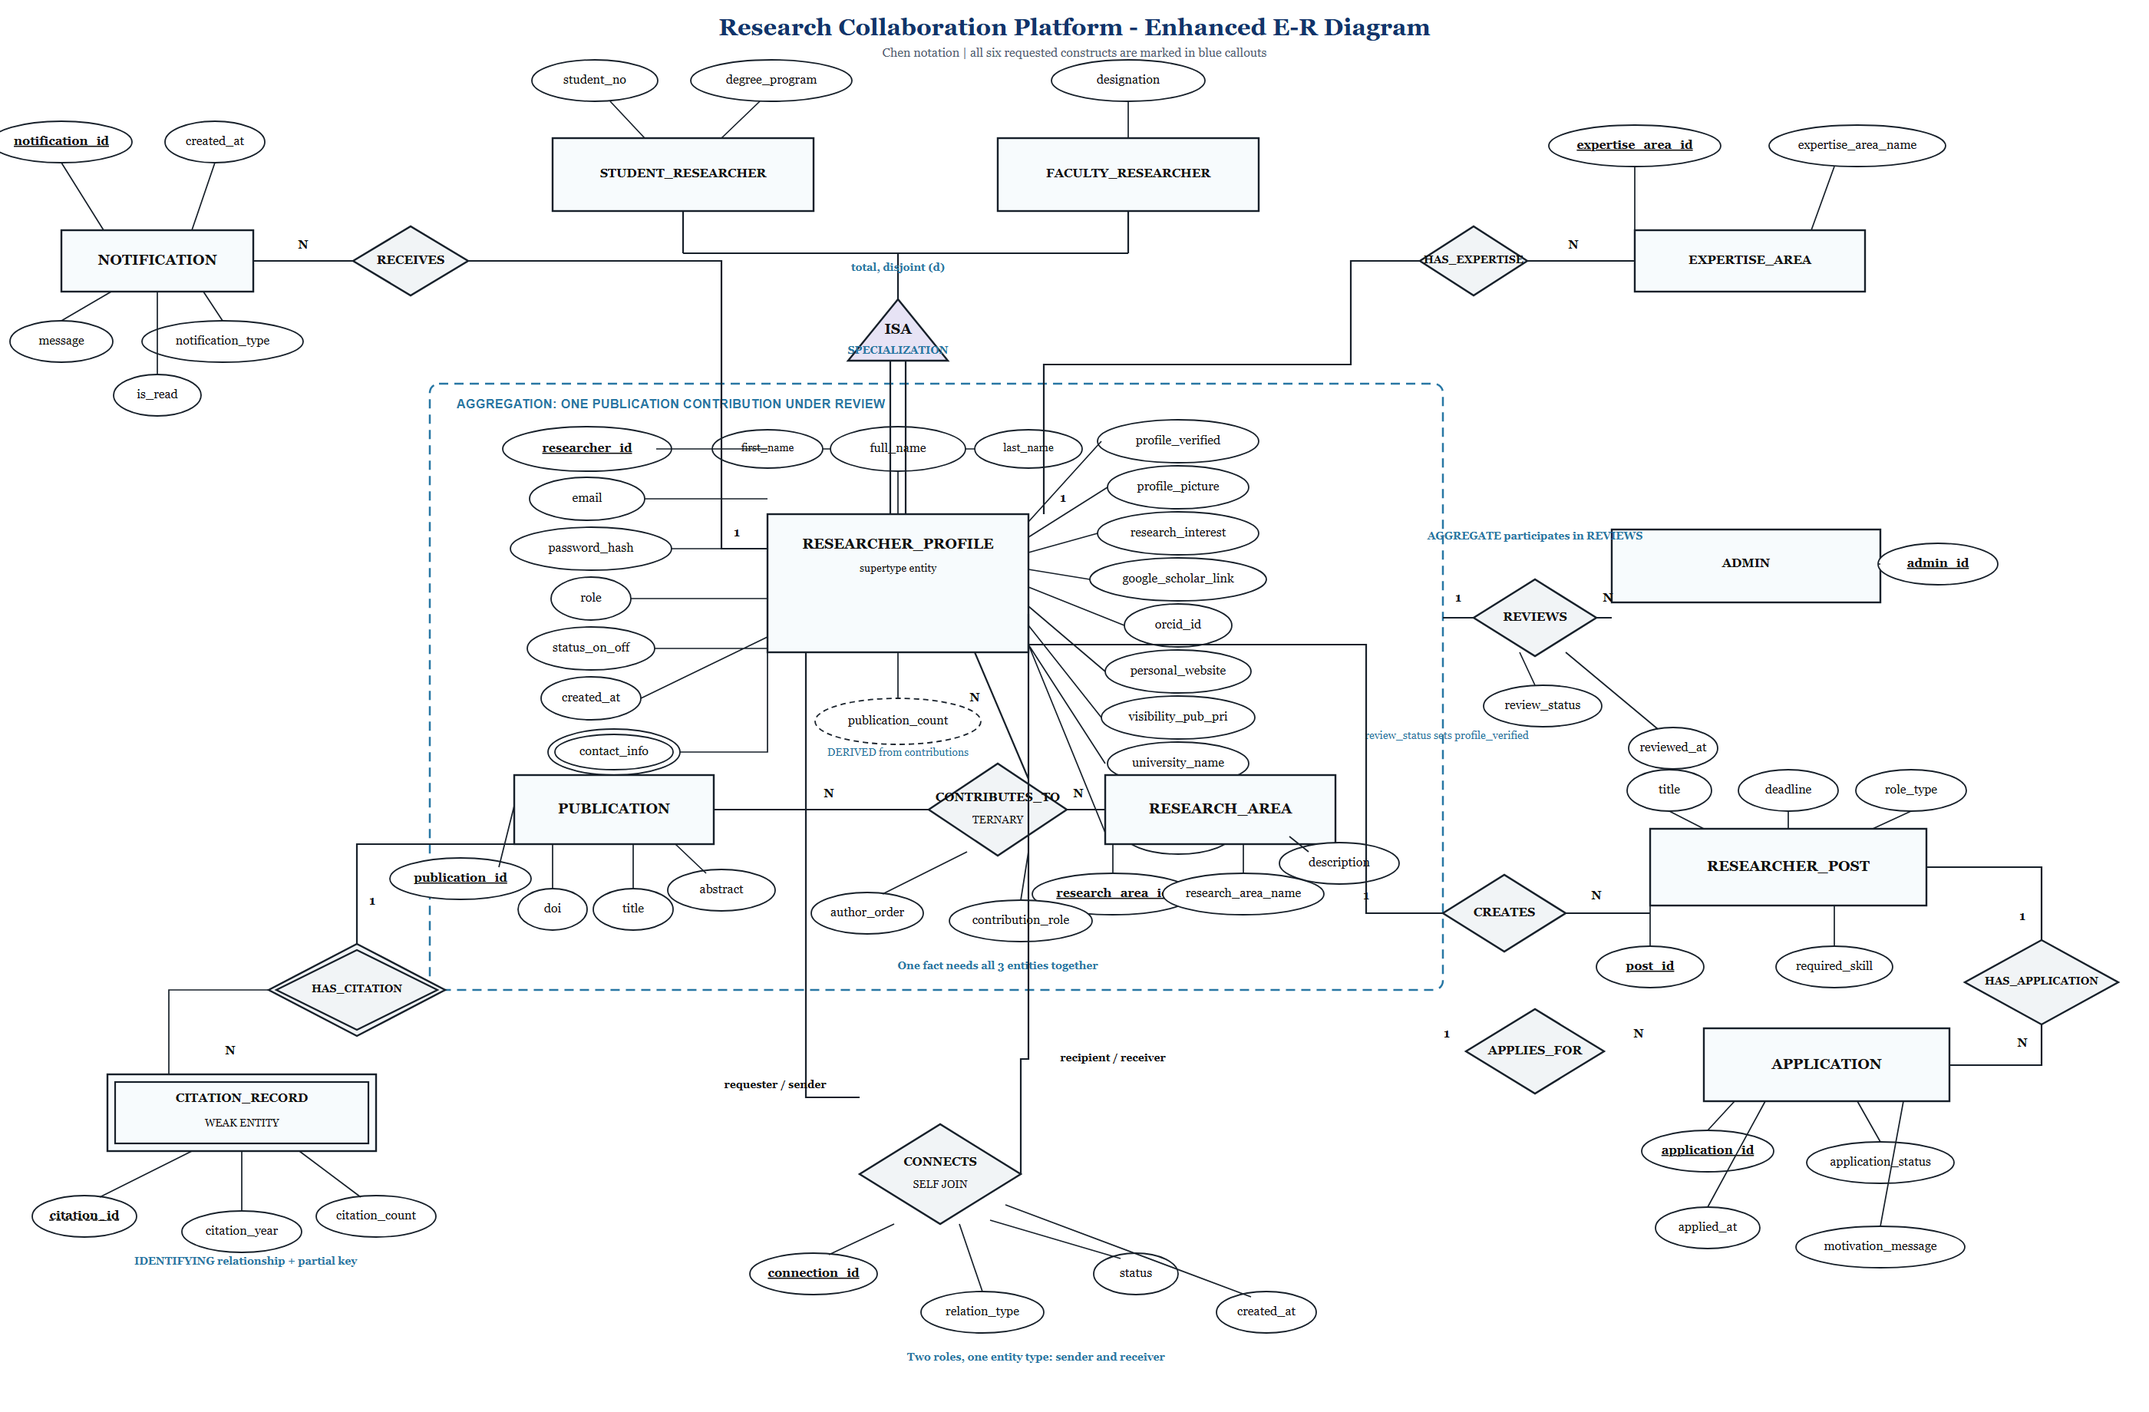
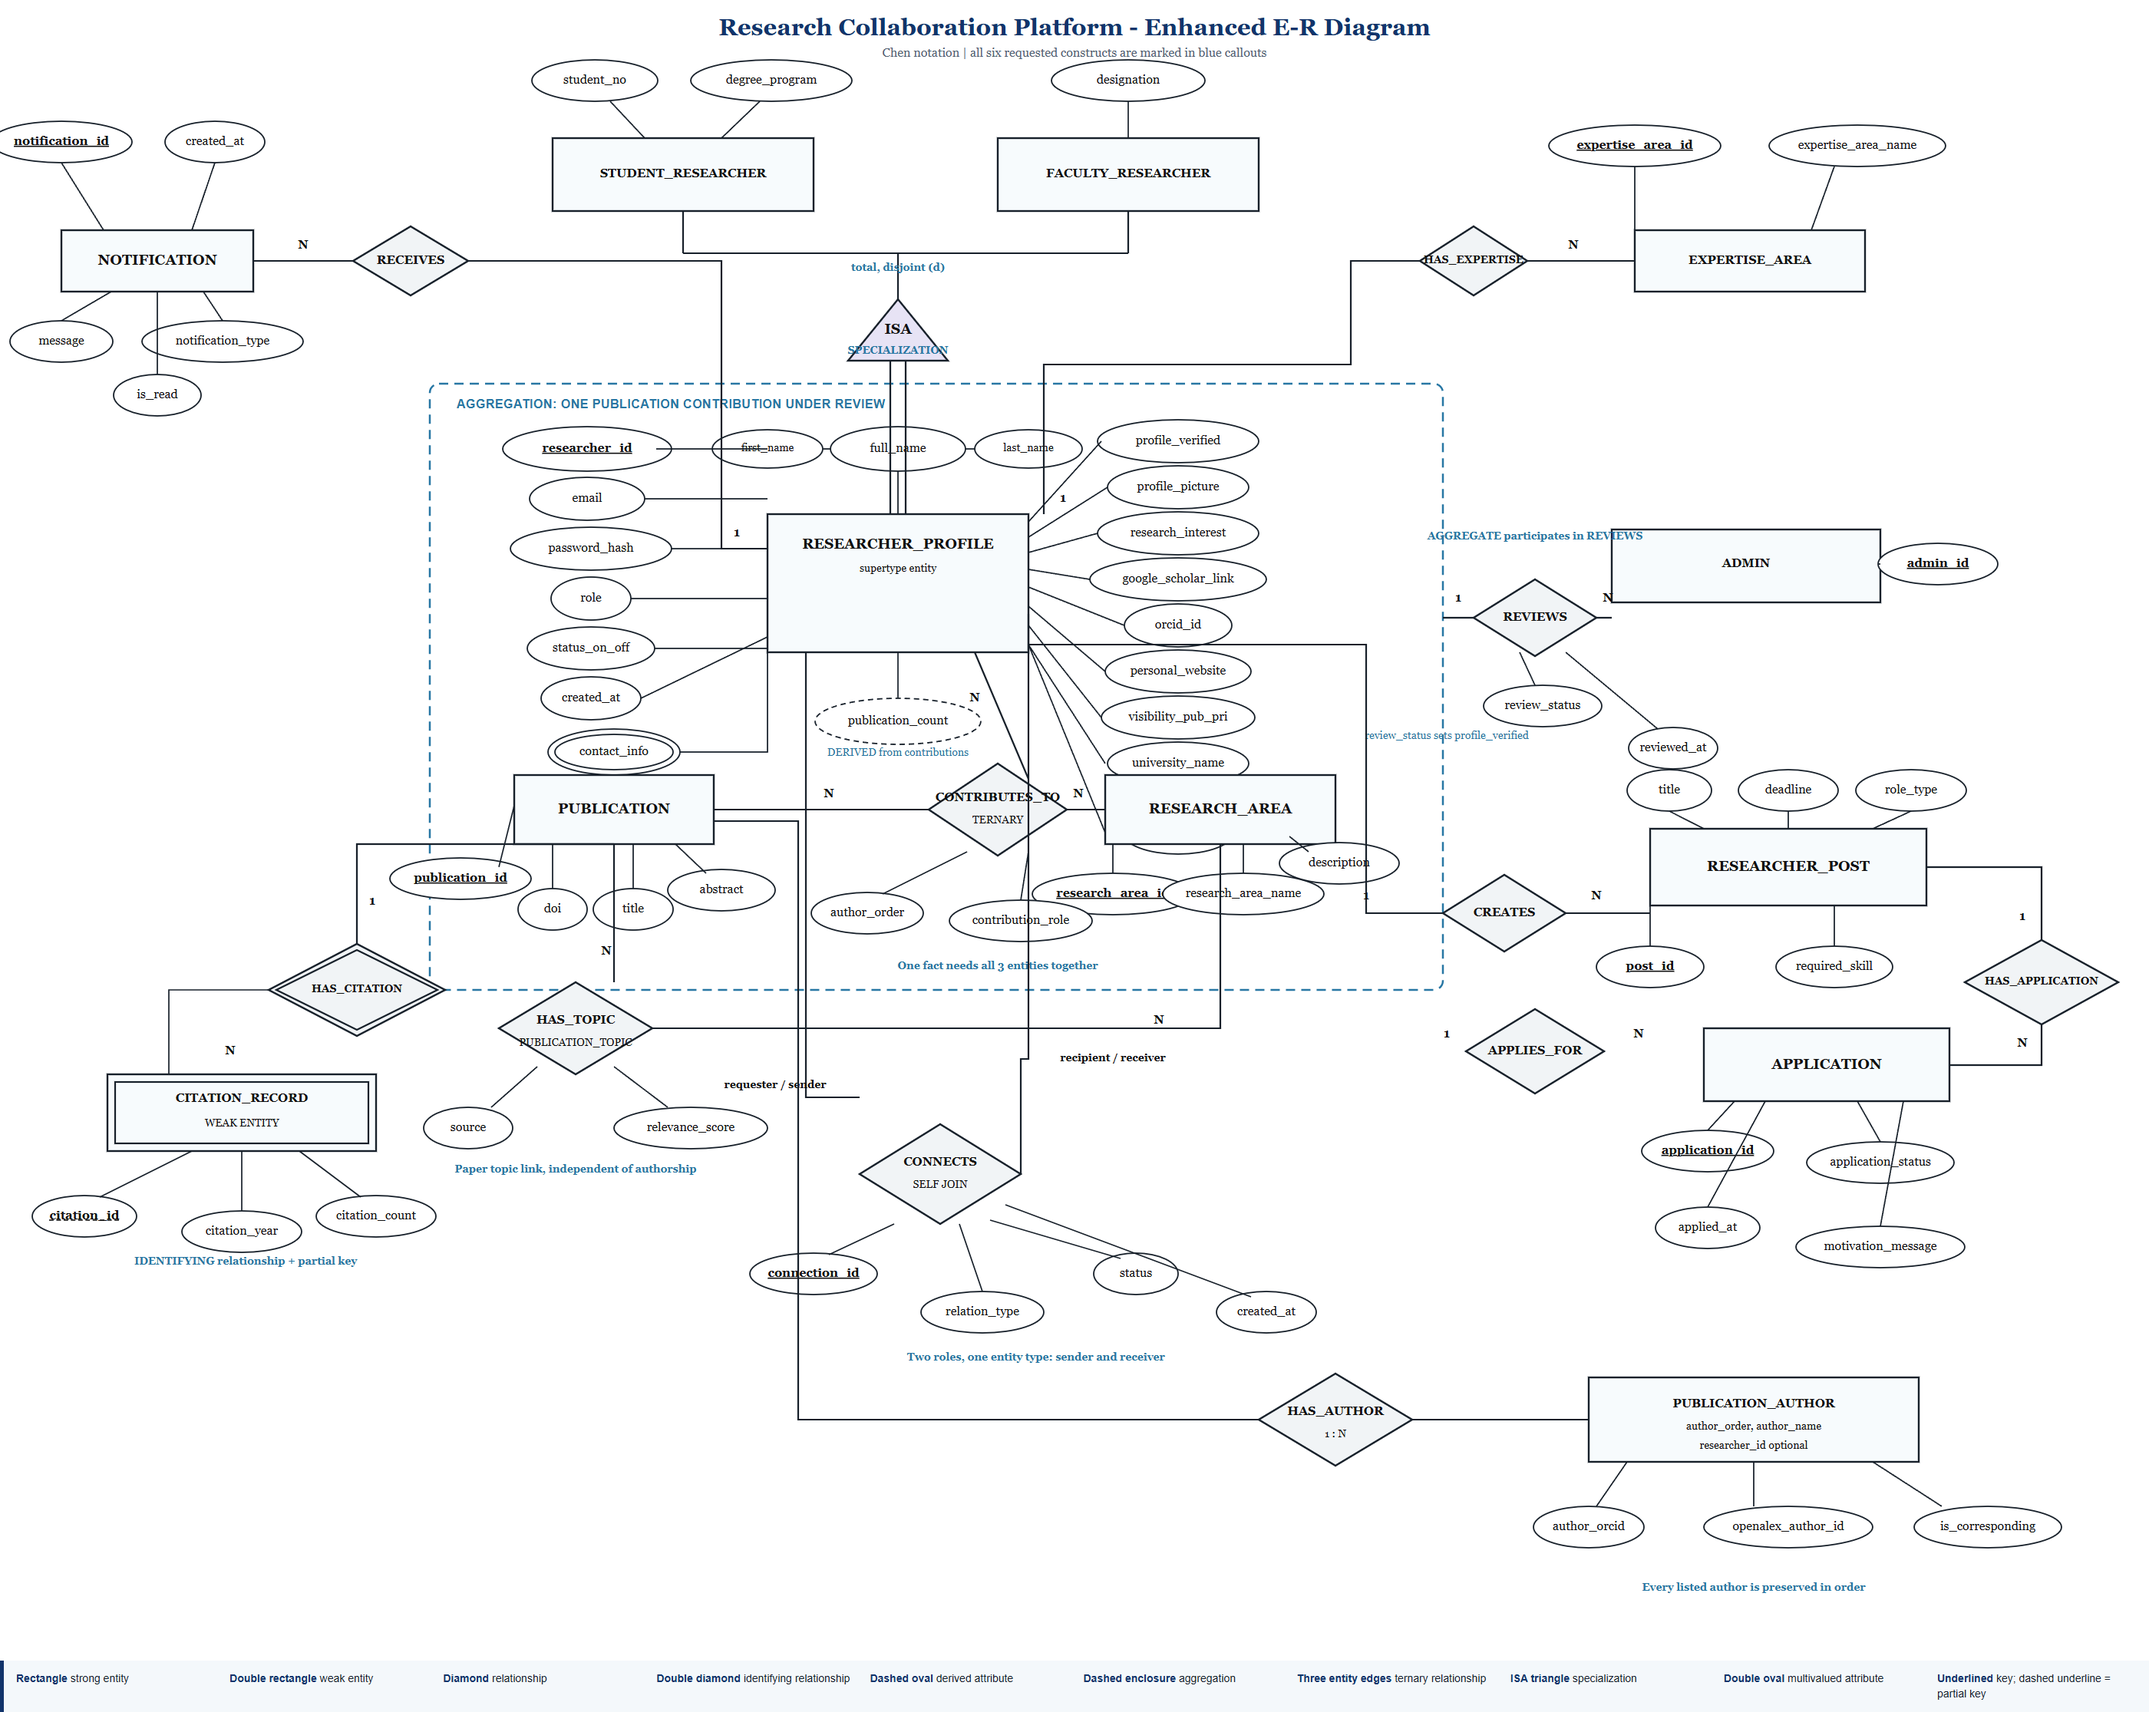
docs: complete publication diagram exports

diff --git a/public/project-schema-er/index.html b/public/project-schema-er/index.html
@@ -81,7 +81,7 @@
 <body>
   <header>
     <h1>Research Collaboration Platform</h1>
-    <p>Complete Chen E-R model and relational schema. The requested classroom constructs are intentionally visible and labelled so the specialization, aggregation, ternary relationship, self join, derived attribute, and weak entity can be checked directly.</p>
+    <p>Complete Chen E-R model and relational schema. The requested classroom constructs are intentionally visible and labelled so the specialization, aggregation, ternary relationship, self join, derived attribute, and weak entity can be checked directly. Publication discovery is restored through independent paper-topic and author relations.</p>
     <nav><a href="#er">ER Diagram</a><a href="#schema">Schema Diagram</a><a href="#mapping">Mapping Checks</a></nav>
   </header>
   <main>
@@ -89,9 +89,9 @@
       <h2>Task A - Enhanced Chen E-R Diagram</h2>
       <p class="intro">The dashed enclosure is an aggregation. The three-way diamond is ternary. The looped CONNECTS relationship is a recursive self join. Double borders identify the weak citation entity and its identifying relationship.</p>
       <div class="diagram-scroll"><div class="diagram-export" id="er-export">
-        <svg id="er-diagram" viewBox="0 0 2800 1840" role="img" aria-labelledby="er-title er-desc">
+        <svg id="er-diagram" viewBox="0 0 2800 2150" role="img" aria-labelledby="er-title er-desc">
           <title id="er-title">Enhanced Research Collaboration Platform Chen ER Diagram</title>
-          <desc id="er-desc">Researcher specialization, ternary contribution, aggregation for review, recursive connection, derived publication count, weak citation history, notification, research area, expertise area, posts, and applications.</desc>
+          <desc id="er-desc">Researcher specialization, ternary contribution, aggregation for review, recursive connection, derived publication count, weak citation history, publication topics, publication authors, notification, research area, expertise area, posts, and applications.</desc>
           <defs>
             <marker id="er-arrow" markerWidth="12" markerHeight="12" refX="10" refY="4" orient="auto"><path d="M0,0 L0,8 L10,4 z" fill="#17202a"/></marker>
           </defs>
@@ -193,6 +193,15 @@
           <path class="connector thin" d="M1260 1110 L1150 1165 M1340 1110 L1330 1173"/>
           <text class="label tiny bold" x="1300" y="1260" style="fill:#2877a4">One fact needs all 3 entities together</text>
 
+          <!-- Restored paper-level topic mapping: a publication can be classified in many research areas. -->
+          <polygon class="relationship" points="650,1340 750,1280 850,1340 750,1400"/><text class="label bold small" x="750" y="1330">HAS_TOPIC</text><text class="label tiny" x="750" y="1360">PUBLICATION_TOPIC</text>
+          <path class="connector" d="M800 1100 V1280 M850 1340 H1590 V1100"/>
+          <text class="label bold small" x="790" y="1240">N</text><text class="label bold small" x="1510" y="1330">N</text>
+          <ellipse class="attribute" cx="610" cy="1470" rx="58" ry="27"/><text class="label small" x="610" y="1470">source</text>
+          <ellipse class="attribute" cx="900" cy="1470" rx="100" ry="27"/><text class="label small" x="900" y="1470">relevance_score</text>
+          <path class="connector thin" d="M700 1390 L640 1443 M800 1390 L870 1443"/>
+          <text class="label tiny bold" x="750" y="1525" style="fill:#2877a4">Paper topic link, independent of authorship</text>
+
           <!-- Aggregation participant: faculty reviewer reviews the contribution occurrence -->
           <rect class="entity-subtype" x="2100" y="690" width="350" height="95"/><text class="label bold small" x="2275" y="735">ADMIN</text>
           <ellipse class="attribute" cx="2525" cy="735" rx="78" ry="27"/><text class="label small key" x="2525" y="735">admin_id</text>
@@ -251,6 +260,16 @@
           <ellipse class="attribute" cx="1650" cy="1710" rx="65" ry="27"/><text class="label small" x="1650" y="1710">created_at</text>
           <path class="connector thin" d="M1165 1595 L1080 1635 M1250 1595 L1280 1683 M1290 1590 L1460 1640 M1310 1570 L1630 1690"/>
           <text class="label tiny bold" x="1350" y="1770" style="fill:#2877a4">Two roles, one entity type: sender and receiver</text>
+
+          <!-- Restored complete author listing, including authors who are not platform researchers. -->
+          <polygon class="relationship" points="1640,1850 1740,1790 1840,1850 1740,1910"/><text class="label bold small" x="1740" y="1840">HAS_AUTHOR</text><text class="label tiny" x="1740" y="1870">1 : N</text>
+          <path class="connector" d="M930 1070 H1040 V1850 H1640 M1840 1850 H2070"/>
+          <rect class="entity" x="2070" y="1795" width="430" height="110"/><text class="label bold small" x="2285" y="1830">PUBLICATION_AUTHOR</text><text class="label tiny" x="2285" y="1860">author_order, author_name</text><text class="label tiny" x="2285" y="1885">researcher_id optional</text>
+          <ellipse class="attribute" cx="2070" cy="1990" rx="72" ry="27"/><text class="label small" x="2070" y="1990">author_orcid</text>
+          <ellipse class="attribute" cx="2330" cy="1990" rx="110" ry="27"/><text class="label small" x="2330" y="1990">openalex_author_id</text>
+          <ellipse class="attribute" cx="2590" cy="1990" rx="96" ry="27"/><text class="label small" x="2590" y="1990">is_corresponding</text>
+          <path class="connector thin" d="M2120 1905 L2080 1963 M2285 1905 V1963 M2440 1905 L2530 1963"/>
+          <text class="label tiny bold" x="2285" y="2070" style="fill:#2877a4">Every listed author is preserved in order</text>
         </svg>
         <div class="legend">
           <span><b>Rectangle</b> strong entity</span>
@@ -297,6 +316,10 @@
             <path d="M1080 1015 H1140 V155 H300" data-ref="PUBLICATION_CONTRIBUTION.researcher_id -> RESEARCHER_PROFILE.researcher_id"/>
             <path d="M1080 1015 H1160 V590 H870" data-ref="PUBLICATION_CONTRIBUTION.research_area_id -> RESEARCH_AREA.research_area_id"/>
             <path d="M1480 1015 H1440 V590 H1180" data-ref="CITATION_RECORD.publication_id -> PUBLICATION.publication_id"/>
+            <path d="M1740 1289 H1690 V590 H1610" data-ref="PUBLICATION_TOPIC.publication_id -> PUBLICATION.publication_id"/>
+            <path d="M1740 1315 H1660 V250 H1480" data-ref="PUBLICATION_TOPIC.research_area_id -> RESEARCH_AREA.research_area_id"/>
+            <path d="M2220 1289 H2160 V590 H1610" data-ref="PUBLICATION_AUTHOR.publication_id -> PUBLICATION.publication_id"/>
+            <path d="M2220 1315 H2120 V155 H740" data-ref="PUBLICATION_AUTHOR.researcher_id -> RESEARCHER_PROFILE.researcher_id"/>
             <!-- aggregation review -->
             <path d="M1420 1010 V900 H2025 V220" data-ref="PUBLICATION_REVIEW.admin_id -> ADMIN.admin_id"/>
             <path d="M1140 1131 H1100" data-ref="PUBLICATION_REVIEW.contributor_id -> PUBLICATION_CONTRIBUTION.researcher_id"/>
@@ -364,9 +387,15 @@
           <g>
             <rect class="table" x="1740" y="950" width="420" height="270"/><rect class="table-head" x="1740" y="950" width="420" height="42"/><text class="label bold small" x="1950" y="971">APPLICATION</text><text class="schema-text schema-key" x="1756" y="1019">application_id (PK)</text><text class="schema-text" x="1756" y="1045">applicant_researcher_id (FK)</text><text class="schema-text" x="1756" y="1071">post_id (FK)</text><text class="schema-text" x="1756" y="1097">application_status</text><text class="schema-text" x="1756" y="1123">applied_at</text><text class="schema-text" x="1756" y="1149">motivation_message</text>
           </g>
-          <g>
-            <rect class="table" x="2200" y="950" width="490" height="240"/><rect class="table-head" x="2200" y="950" width="490" height="42"/><text class="label bold" x="2445" y="971">CONNECTION</text><text class="schema-text schema-key" x="2216" y="1019">connection_id (PK)</text><text class="schema-text" x="2216" y="1045">sender_researcher_id (FK)</text><text class="schema-text" x="2216" y="1071">receiver_researcher_id (FK)</text><text class="schema-text" x="2216" y="1097">relation_type</text><text class="schema-text" x="2216" y="1123">status</text><text class="schema-text" x="2216" y="1149">created_at</text><text class="schema-text" x="2216" y="1175">FKs both reference RESEARCHER_PROFILE</text>
-          </g>
+           <g>
+             <rect class="table" x="2200" y="950" width="490" height="240"/><rect class="table-head" x="2200" y="950" width="490" height="42"/><text class="label bold" x="2445" y="971">CONNECTION</text><text class="schema-text schema-key" x="2216" y="1019">connection_id (PK)</text><text class="schema-text" x="2216" y="1045">sender_researcher_id (FK)</text><text class="schema-text" x="2216" y="1071">receiver_researcher_id (FK)</text><text class="schema-text" x="2216" y="1097">relation_type</text><text class="schema-text" x="2216" y="1123">status</text><text class="schema-text" x="2216" y="1149">created_at</text><text class="schema-text" x="2216" y="1175">FKs both reference RESEARCHER_PROFILE</text>
+           </g>
+           <g>
+             <rect class="table" x="1740" y="1220" width="450" height="130"/><rect class="table-head" x="1740" y="1220" width="450" height="42"/><text class="label bold small" x="1965" y="1241">PUBLICATION_TOPIC</text><text class="schema-text schema-key" x="1756" y="1289">publication_id (PK, FK)</text><text class="schema-text schema-key" x="1756" y="1315">research_area_id (PK, FK)</text><text class="schema-text" x="1756" y="1341">source, relevance_score</text>
+           </g>
+           <g>
+             <rect class="table" x="2220" y="1220" width="470" height="130"/><rect class="table-head" x="2220" y="1220" width="470" height="42"/><text class="label bold small" x="2455" y="1241">PUBLICATION_AUTHOR</text><text class="schema-text schema-key" x="2236" y="1289">publication_id (PK, FK), author_order (PK)</text><text class="schema-text" x="2236" y="1315">researcher_id (FK), author_name, author_orcid</text><text class="schema-text" x="2236" y="1341">openalex_author_id, is_corresponding</text>
+           </g>
 
           <rect x="60" y="1370" width="2630" height="720" fill="#f4f8fb" stroke="#9fb4c7" stroke-width="1.5"/>
           <text x="90" y="1410" class="section-note">RELATIONAL MAPPING CHECKS</text>
@@ -378,7 +407,7 @@
           <text x="90" y="1810" class="schema-text" style="font:700 17px Arial;fill:#12346b">DERIVED ATTRIBUTE</text><text x="90" y="1838" class="schema-text">publication_count is calculated from PUBLICATION_CONTRIBUTION and is intentionally not stored in RESEARCHER_PROFILE.</text>
           <text x="90" y="1898" class="schema-text" style="font:700 17px Arial;fill:#12346b">APPLICATION RELATIONSHIPS</text><text x="90" y="1926" class="schema-text">APPLICATION stores applicant_researcher_id and post_id, linking one applicant and one research post to each application.</text>
           <text x="90" y="1970" class="schema-text" style="font:700 17px Arial;fill:#12346b">NOTATION</text><text x="90" y="1998" class="schema-text">Underlined attributes are PKs. PK, FK marks both roles. FK* means a member of the composite contribution reference.</text>
-          <text x="90" y="2042" class="schema-text" style="font:700 17px Arial;fill:#12346b">PROFILE VERIFICATION</text><text x="90" y="2070" class="schema-text">PUBLICATION_REVIEW.review_status drives RESEARCHER_PROFILE.profile_verified according to the admin review result.</text>
+          <text x="90" y="2042" class="schema-text" style="font:700 17px Arial;fill:#12346b">RESTORED PUBLICATION DISCOVERY</text><text x="90" y="2070" class="schema-text">PUBLICATION_TOPIC stores each paper's topics and keywords independently of the ternary contribution. PUBLICATION_AUTHOR preserves every listed author, order, identifiers, and corresponding-author flag.</text>
         </svg>
         <div class="legend">
           <span><b>Underlined row</b> primary key</span>
@@ -389,7 +418,7 @@
           <span><b>Partial key</b> weak-entity citation id</span>
         </div>
       </div></div>
-      <div class="mapping"><b>Important mapping decisions:</b> `publication_count` is derived and therefore absent from the schema; `full_name` is represented by `first_name` and `last_name`; the weak citation record uses `(publication_id, citation_id)`; and admin review status drives `profile_verified`.</div>
+      <div class="mapping"><b>Important mapping decisions:</b> `publication_count` is derived and therefore absent from the schema; `full_name` is represented by `first_name` and `last_name`; the weak citation record uses `(publication_id, citation_id)`; and the restored `PUBLICATION_TOPIC(publication_id, research_area_id, source, relevance_score)` and `PUBLICATION_AUTHOR(publication_id, author_order, researcher_id, author_name, author_orcid, openalex_author_id, is_corresponding)` relations preserve paper-level discovery data without inventing researcher-topic combinations.</div>
     </section>
 
     <section id="mapping">
@@ -402,6 +431,7 @@
         <div class="check"><strong>4. SELF JOIN</strong>CONNECTS loops from RESEARCHER_PROFILE back to itself with requester/sender and recipient/receiver roles.</div>
         <div class="check"><strong>5. DERIVED ATTRIBUTE</strong>Dashed oval `publication_count`, calculated from contribution rows and not stored.</div>
         <div class="check"><strong>6. WEAK ENTITY</strong>Double-border CITATION_RECORD, double-diamond HAS_CITATION, and dashed-underlined partial key `citation_id`.</div>
+        <div class="check"><strong>7. RESTORED DISCOVERY</strong>PUBLICATION_TOPIC retains every paper topic/keyword, while PUBLICATION_AUTHOR retains complete author metadata. Both are independent relations to PUBLICATION.</div>
       </div>
     </section>
   </main>
